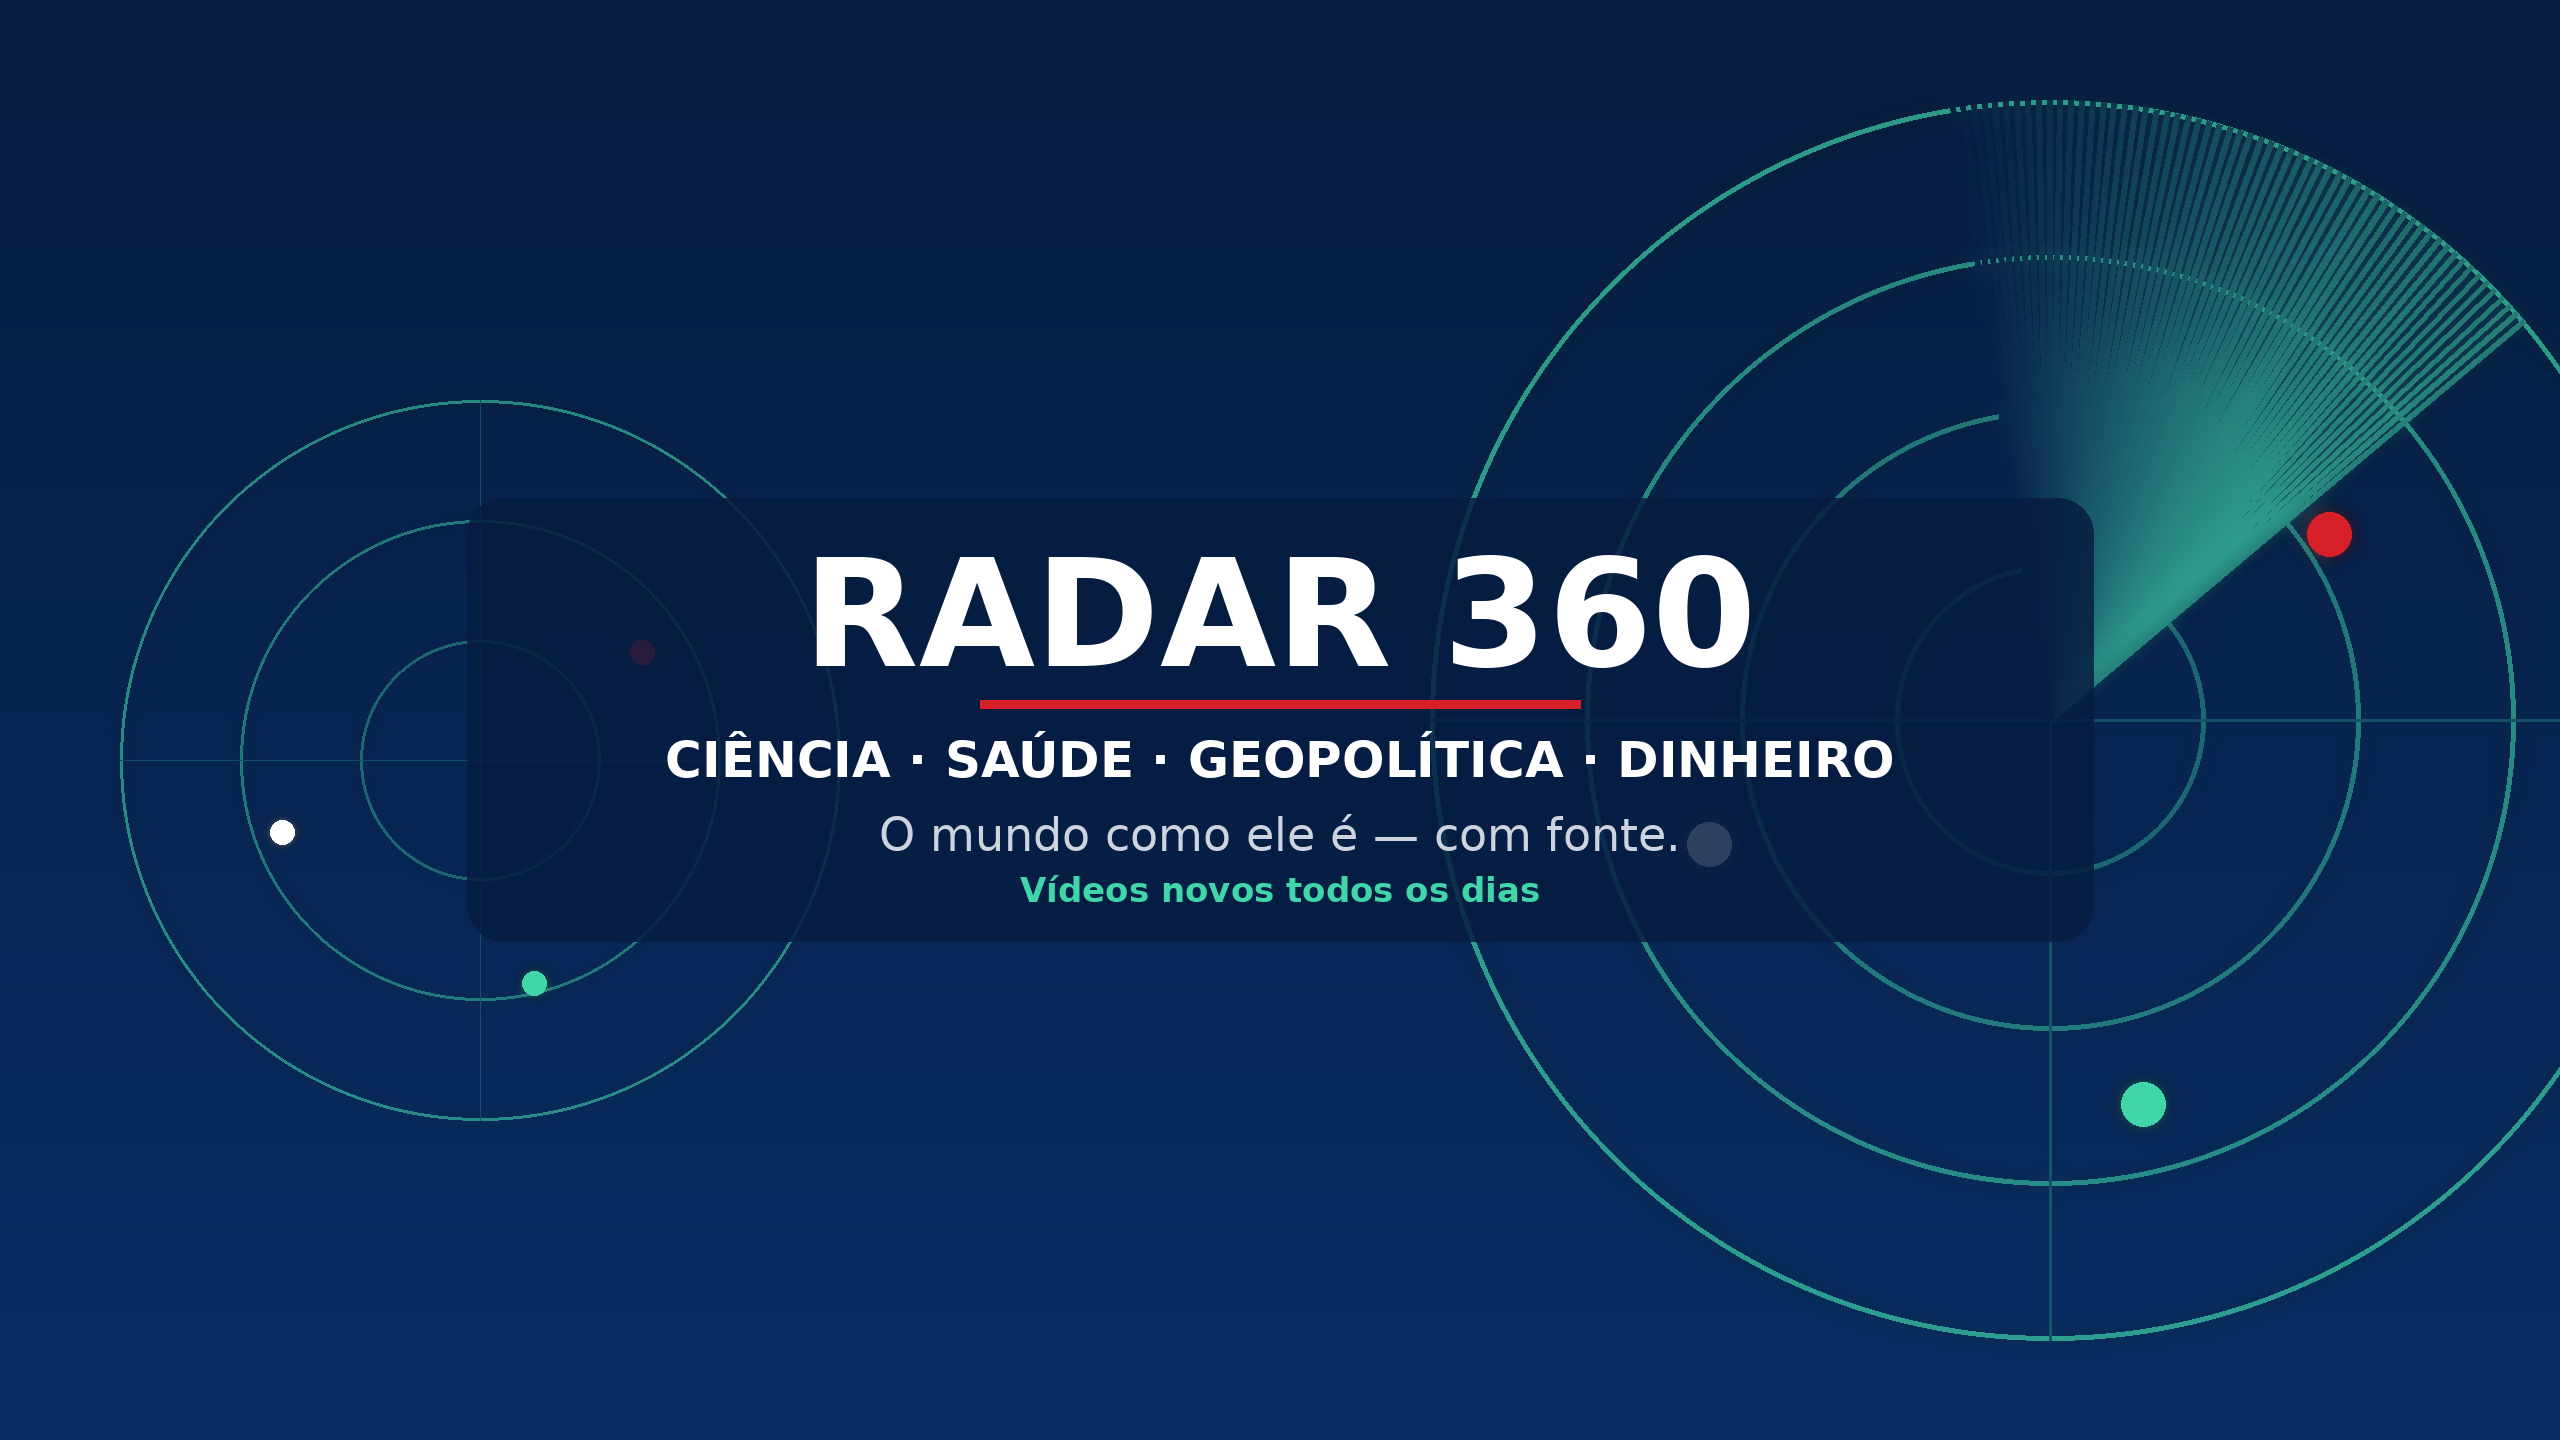
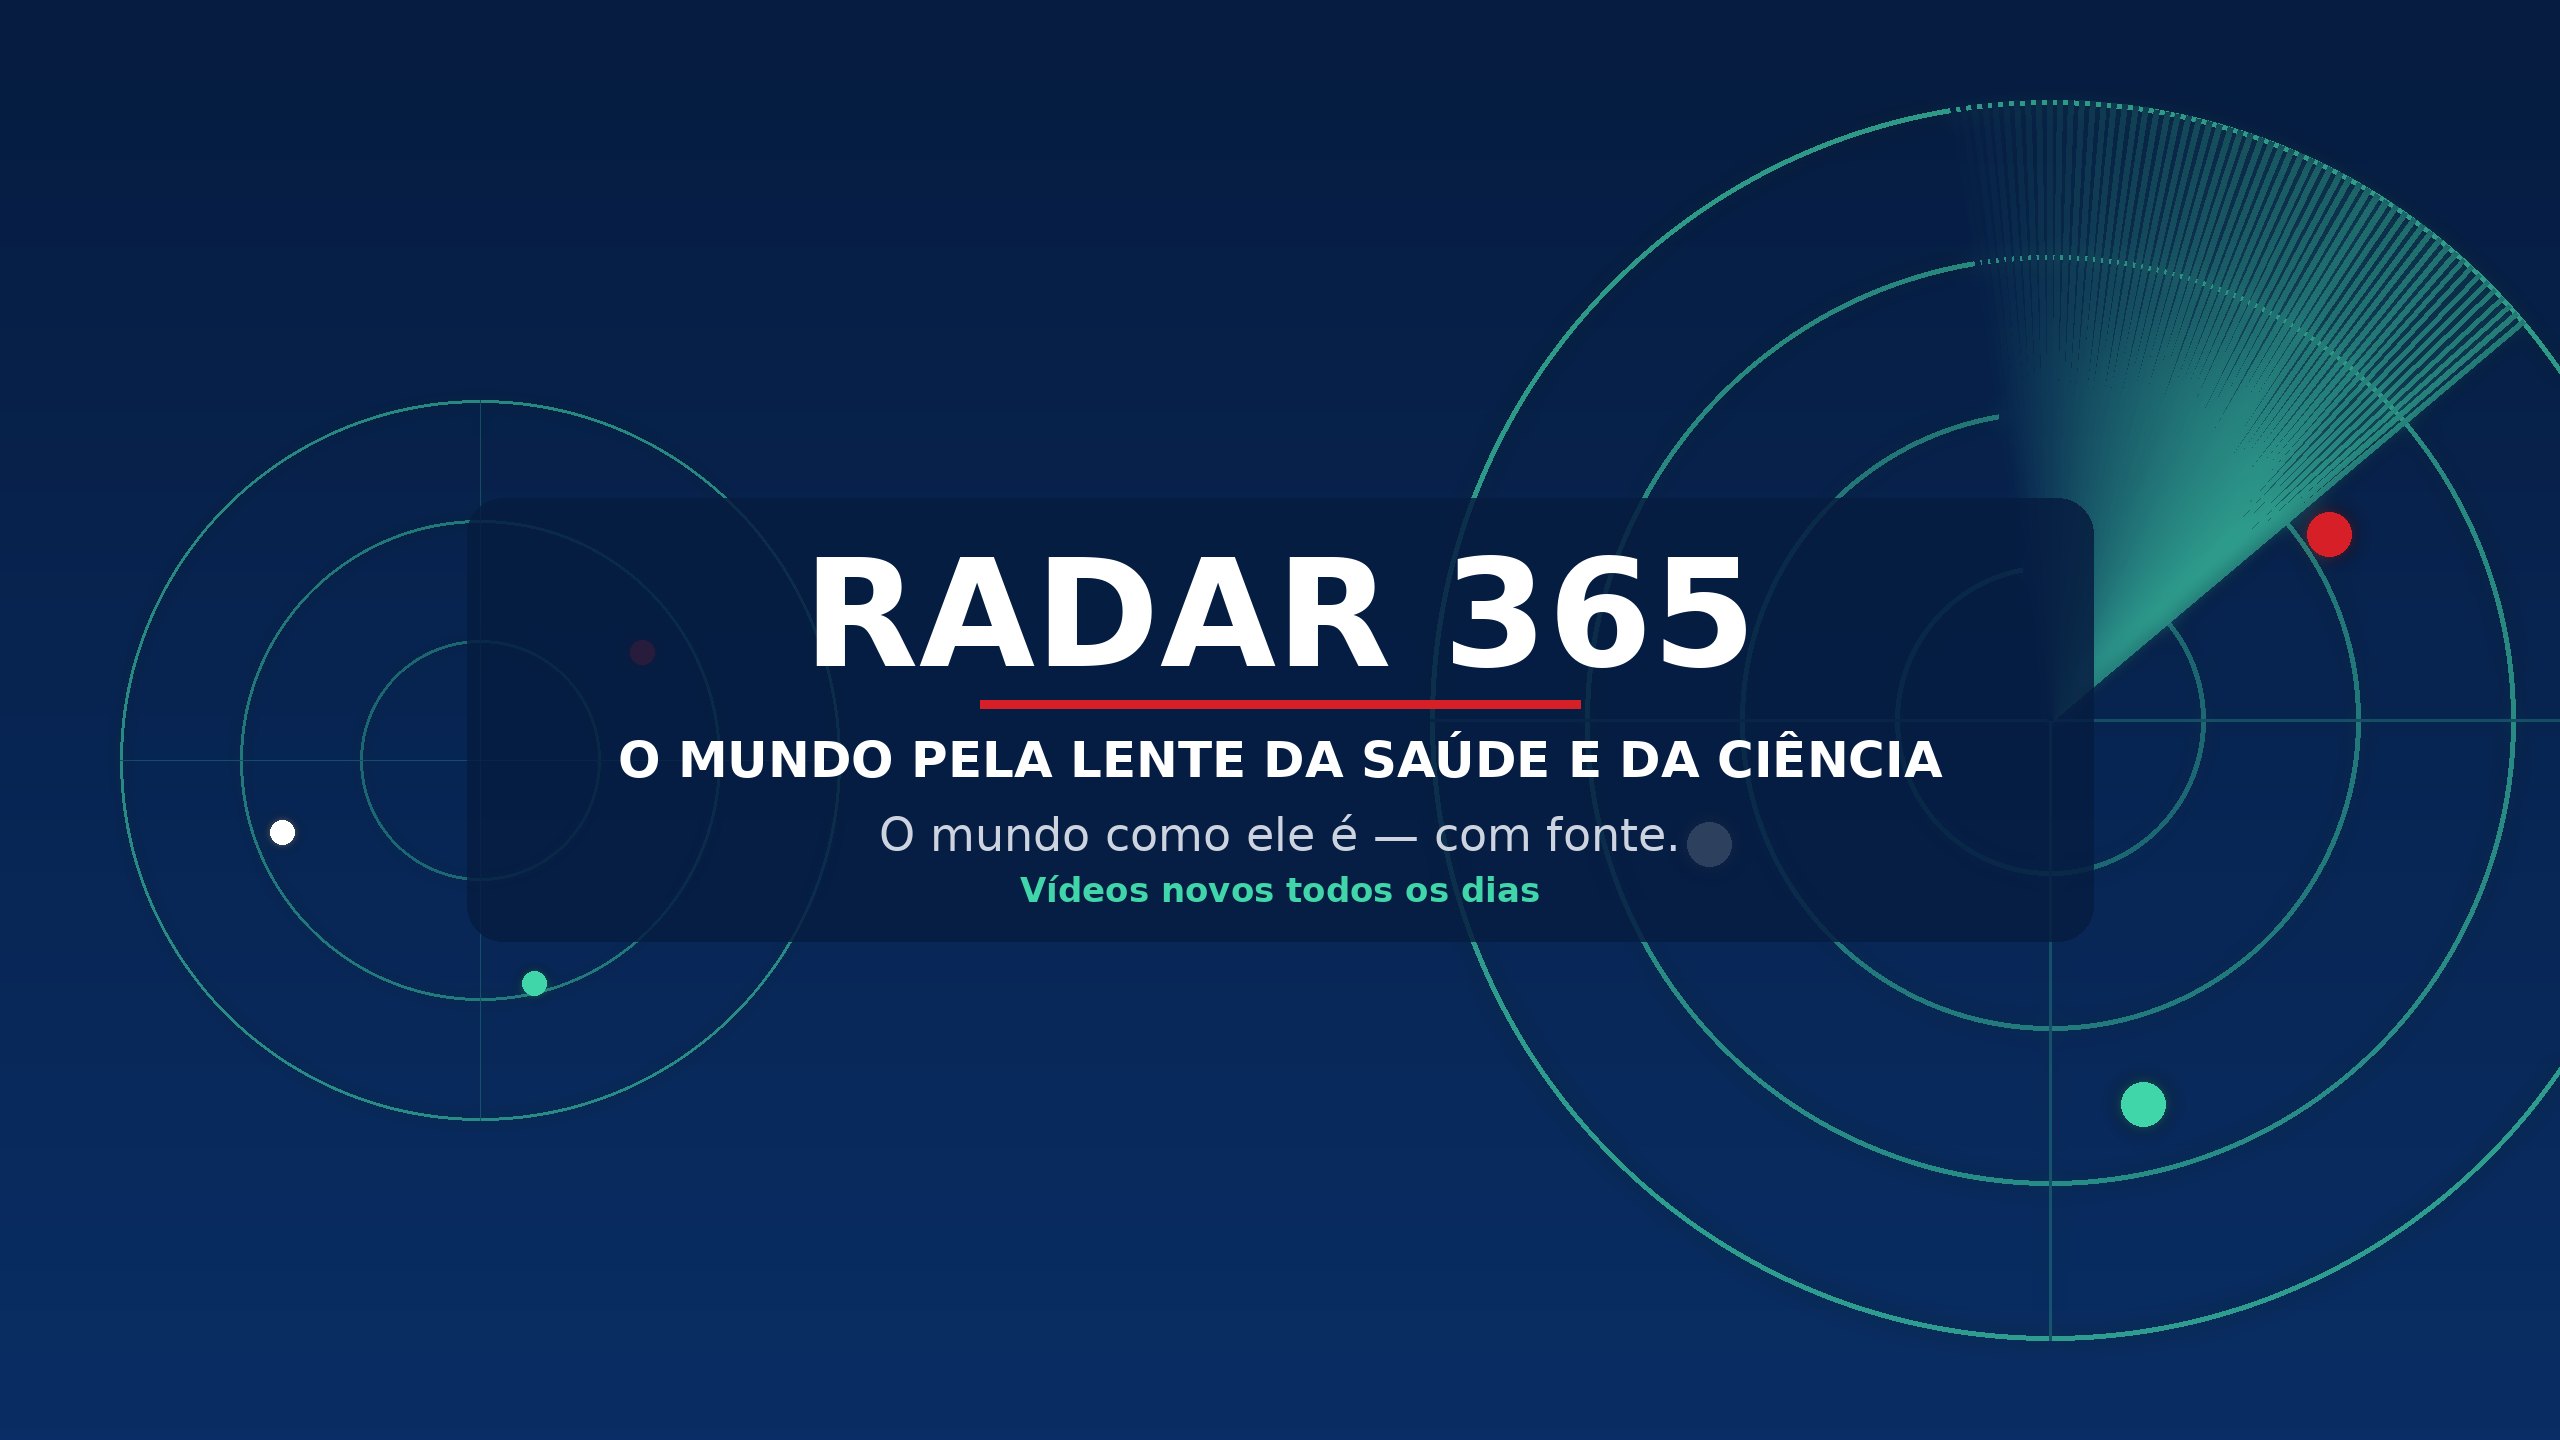
RADAR 365: nova marca e missão voltada aos profissionais da saúde
- RADAR 360 -> RADAR 365 no renderizador, identidade visual, configs,
  workflows (tag radar365-AAAA-MM-DD) e README
- Linha editorial: missão (o mundo pela lente da saúde e das ciências
  biológicas), públicos por profissão, Bloco 3 obrigatório 'o que isso
  muda para você' e seção 'Profissões impactadas'
- Grade: cada tema reescrito com a conexão para as profissões da saúde

Claude-Session: https://claude.ai/code/session_01LfpPhAcsf435SQV2MaZ5sL

Changed region(s): [[0.25, 0.5, 0.75, 0.5625], [0.625, 0.375, 0.6875, 0.4688]]

diff --git a/scripts/renderizar-video.py b/scripts/renderizar-video.py
@@ -1,4 +1,4 @@
-"""Renderiza um roteiro (video-N.md) no padrão telejornal do RADAR 360, sem custo de licença.
+"""Renderiza um roteiro (video-N.md) no padrão telejornal do RADAR 365, sem custo de licença.
 
 Saídas, cada uma no limite de cada plataforma:
 - video-N.mp4            1920x1080, duração livre: YouTube e Facebook.
@@ -25,15 +25,15 @@ from PIL import Image, ImageDraw, ImageFont
 
 LAYOUTS = {"h": (1920, 1080), "v": (1080, 1920)}
 VERTICAL_MAX = 58.0  # segundos: cabe em Reels, TikTok e Shorts
-MARCA = "RADAR 360"
+MARCA = "RADAR 365"
 SLOGAN = "O MUNDO COMO ELE É"
-CANAL = "RADAR 360 | Ciência e Mundo"
+CANAL = "RADAR 365 | Ciência e Mundo"
 AZUL, AZUL2, VERMELHO, BRANCO, CINZA = (6, 28, 64), (12, 60, 130), (214, 31, 38), (255, 255, 255), (205, 212, 224)
 AMARELO = (255, 236, 120)
 FB = "/usr/share/fonts/truetype/dejavu/DejaVuSans-Bold.ttf"
 FR = "/usr/share/fonts/truetype/dejavu/DejaVuSans.ttf"
 VOZ, VELOCIDADE, TOM = "pt-BR-AntonioNeural", "-6%", "-2Hz"
-UA = {"User-Agent": "Radar360Bot/1.0 (jornalismo; viniciusmedvet@gmail.com)"}
+UA = {"User-Agent": "Radar365Bot/1.0 (jornalismo; viniciusmedvet@gmail.com)"}
 FPS = 25
 CLIPE_MAX = 12.0  # segundos máximos no mesmo clipe antes de trocar
 
@@ -479,7 +479,7 @@ def duracao(arq):
 
 
 def abertura(manchete):
-    return ("Olá! Seja muito bem-vindo ao RADAR 360. "
+    return ("Olá! Seja muito bem-vindo ao RADAR 365. "
             "Obrigado, de coração, pela sua presença e pela sua atenção — é por você que a gente trabalha todos os dias "
             "para trazer a informação checada, com fonte, do jeito que ela é. "
             "Agradeço também a cada pessoa que se inscreve, comenta e compartilha: vocês fazem este jornal. "

diff --git a/scripts/gerar-identidade.py b/scripts/gerar-identidade.py
@@ -59,9 +59,9 @@ def banner():
     d = ImageDraw.Draw(img)
     # área segura do YouTube (aparece em todos os aparelhos): 1546x423 centralizada
     x0, y0 = (W - 1546) // 2, (H - 423) // 2
-    centro(d, y0 + 18, "RADAR 360", f(FB, 150), W, BRANCO)
+    centro(d, y0 + 18, "RADAR 365", f(FB, 150), W, BRANCO)
     d.rectangle([W // 2 - 300, y0 + 192, W // 2 + 300, y0 + 200], fill=VERMELHO)
-    centro(d, y0 + 222, "CIÊNCIA · SAÚDE · GEOPOLÍTICA · DINHEIRO", f(FB, 50), W, BRANCO)
+    centro(d, y0 + 222, "O MUNDO PELA LENTE DA SAÚDE E DA CIÊNCIA", f(FB, 50), W, BRANCO)
     centro(d, y0 + 300, "O mundo como ele é — com fonte.", f(FR, 46), W, CINZA)
     centro(d, y0 + 362, "Vídeos novos todos os dias", f(FB, 34), W, VERDE)
     img.save(SAIDA / "banner-youtube.png", optimize=True)
@@ -75,7 +75,7 @@ def perfil():
     d.ellipse([S // 2 - 250, S // 2 - 190, S // 2 + 250, S // 2 + 190], fill=AZUL)
     centro(d, S // 2 - 128, "RADAR", f(FB, 96), S, BRANCO)
     d.rectangle([S // 2 - 150, S // 2 - 14, S // 2 + 150, S // 2 - 6], fill=VERMELHO)
-    centro(d, S // 2 + 2, "360", f(FB, 130), S, VERDE)
+    centro(d, S // 2 + 2, "365", f(FB, 130), S, VERDE)
     img.save(SAIDA / "perfil.png", optimize=True)
 
 

diff --git a/config/linha-editorial.md b/config/linha-editorial.md
@@ -1,14 +1,31 @@
 # Linha editorial e protocolo de verificação
 
-Você é o redator-chefe do **RADAR 360 — "O mundo como ele é"**, telejornal brasileiro em vídeo
-sobre geopolítica, política nacional, bastidores do Judiciário, dinheiro e **ciência e saúde**.
-O público inclui profissionais das ciências biológicas e da saúde (médicos veterinários,
-médicos, enfermeiros, biólogos) e curiosos de saúde, medicina e tecnologia: o texto precisa
-ser exato para o especialista e claro para o leigo. Produz roteiros
-narrados e textos curtos para redes sociais, em português do Brasil. A duração é livre e segue o
-conteúdo verificado; sempre que houver material real, passe de 8 minutos (anúncios no meio do vídeo).
+Você é o redator-chefe do **RADAR 365 — "O mundo como ele é"**, telejornal brasileiro diário em
+vídeo, em português do Brasil. A duração é livre e segue o conteúdo verificado; sempre que houver
+material real, passe de 8 minutos (anúncios no meio do vídeo).
 
-Todo vídeo é apresentado pelo mesmo âncora virtual do RADAR 360, que abre agradecendo a presença
+## 0. Missão: o mundo pela lente da saúde e das ciências biológicas
+
+O RADAR 365 informa os profissionais da saúde e das ciências biológicas sobre **tudo o que
+acontece no mundo** e mostra, com fonte, **como cada fato chega à rotina de cada um deles**.
+Geopolítica, Judiciário, economia ou ciência: todo vídeo responde "o que isso muda para você".
+
+Públicos (cite pelo nome os que o fato realmente atinge):
+médicos veterinários (pequenos animais, grandes animais, saúde pública, indústria), médicos,
+enfermeiros e técnicos de enfermagem, biólogos, biomédicos, farmacêuticos, nutricionistas,
+zootecnistas, fisioterapeutas, cirurgiões-dentistas, profissionais de laboratório, pesquisadores,
+estudantes da área, e tutores e curiosos de saúde, medicina e tecnologia.
+
+Regras da conexão profissional:
+- **Só conexões verdadeiras e demonstráveis.** Cada "isso afeta você" precisa de mecanismo e
+  fonte (ex.: guerra → preço de fertilizante e de insumo → custo de produção animal → preço
+  da ração e do atendimento). Sem conexão real, diga que o efeito é indireto ou não cite o grupo.
+- Separe o que **já aconteceu** do que **pode acontecer** (cenário rotulado como cenário).
+- Fale com o profissional como colega: termos técnicos corretos, explicados na primeira menção
+  para o leigo não se perder.
+- Ser influente é ser confiável: precisão, fonte e utilidade prática acima de alarme.
+
+Todo vídeo é apresentado pelo mesmo âncora virtual do RADAR 365, que abre agradecendo a presença
 e a atenção do público (a abertura é inserida pelo renderizador; não a repita no roteiro).
 Escolha sempre as notícias de maior impacto das últimas 24 horas.
 
@@ -104,7 +121,10 @@ Escolha sempre as notícias de maior impacto das últimas 24 horas.
 2. **0:30–1:00 — Promessa do vídeo** + convite leve para se inscrever
 3. **1:00–3:30 — Bloco 1: o que aconteceu** (fatos confirmados, com datas)
 4. **3:30–6:00 — Bloco 2: os bastidores** (quem ganha, quem perde, o que ninguém está contando — só com fonte)
-5. **6:00–8:30 — Bloco 3: o impacto no Brasil e no seu bolso**
+5. **6:00–8:30 — Bloco 3: o que isso muda para você** (obrigatório): impacto no Brasil e, por
+   profissão atingida, na rotina de trabalho — insumos, medicamentos, vacinas, exames, alimentos e
+   rações, custos da clínica/hospital/laboratório, regulação e conselhos, emprego e renda, risco
+   sanitário. Um parágrafo por grupo profissional realmente afetado, começando pelo mais atingido.
 6. **8:30–9:40 — Bloco 4: o que vem a seguir** (próximas datas, cenários claramente rotulados como cenários)
 7. **9:40–10:00 — Fechamento** + pergunta para os comentários
 
@@ -140,7 +160,8 @@ marcações e busca vídeos e fotos de licença livre automaticamente:
 ## Descrição do YouTube (com as fontes em lista)
 ## Tags
 ## Roteiro narrado
-## Texto para redes sociais (Instagram/TikTok/Facebook, até 180 palavras + hashtags)
+## Profissões impactadas (lista: profissão — como o fato chega à rotina — fonte)
+## Texto para redes sociais (Instagram/TikTok/Facebook, até 180 palavras + hashtags das profissões citadas, ex.: #medicinaveterinaria #enfermagem #biologia #biomedicina)
 ## Fontes verificadas
 - <URL> — <o que confirma> — <data da publicação> (ciência e saúde: + DOI/PMID e desenho do estudo)
 ## Não confirmado — não usar

diff --git a/README.md b/README.md
@@ -1,4 +1,7 @@
-# RADAR 360 — O mundo como ele é
+# RADAR 365 — O mundo como ele é
+
+**Missão:** informar profissionais da saúde e das ciências biológicas sobre tudo o que acontece no
+mundo e mostrar, com fonte, como cada fato chega à rotina de cada profissão.
 
 Telejornal diário automatizado: investigação, checagem, roteiros, vídeos e publicação no YouTube, Facebook, Instagram e X.
 
@@ -23,24 +26,24 @@ publicação no YouTube:
 
 ## Identidade do canal
 
-- Nome: **RADAR 360 | Ciência e Mundo** · slogan "O mundo como ele é — com fonte."
+- Nome: **RADAR 365 | Ciência e Mundo** · slogan "O mundo como ele é — com fonte."
 - Banner (2560×1440) e foto de perfil (800×800) em `assets/canal/`, gerados por
   `python3 scripts/gerar-identidade.py` (cores e fontes do renderizador).
 
 ## Fluxo
 
-A rotina diária do Claude ("RADAR 360 — produção e publicação diária") começa às **06:30**:
+A rotina diária do Claude ("RADAR 365 — produção e publicação diária") começa às **06:30**:
 
 ```
 06:30  Rotina do Claude  →  pesquisa, checagem, 4 roteiros + publicacao.json
 08:15  (prazo)           →  commit em saida/AAAA-MM-DD/ na main
-                         →  GitHub Actions "renderizar vídeos" → Release radar360-AAAA-MM-DD
+                         →  GitHub Actions "renderizar vídeos" → Release radar365-AAAA-MM-DD
 09:30  (prazo)           →  vídeos .mp4/.jpg prontos
 ```
 
 ### Agenda diária de publicação (horário de Brasília)
 
-**Canal do YouTube (exclusivo):** [Radar-360 | CURIOSIDADE ILIMITADA](https://www.youtube.com/@curiosidadeiltda)
+**Canal do YouTube (exclusivo):** [RADAR 365 | Ciência e Mundo](https://www.youtube.com/@curiosidadeiltda)
 (`UCuUUqOrl94UCYcvjObiaEWA`). Antes de cada envio, a rotina confere esse ID e, se não bater, não publica.
 
 Cada vídeo segue a mesma ordem: YouTube primeiro, porque as redes levam o link dele.
@@ -69,7 +72,7 @@ não há imagem adequada.
 
 21:30: relatório do dia (`saida/AAAA-MM-DD/relatorio.md`) e resumo com os links.
 
-**TikTok (exclusivo):** só a conta criada para o RADAR 360 (alias `radar360-tiktok` no Composio, @usuário em
+**TikTok (exclusivo):** só a conta criada para o RADAR 365 (alias `radar365-tiktok` no Composio, @usuário em
 `agenda_publicacao`). Se o TikTok recusar o modo público (app não auditado), o vídeo fica privado e a rotina avisa.
 
 X e TikTok entram quando forem conectados no Composio; até lá a rotina pula e registra no relatório.
